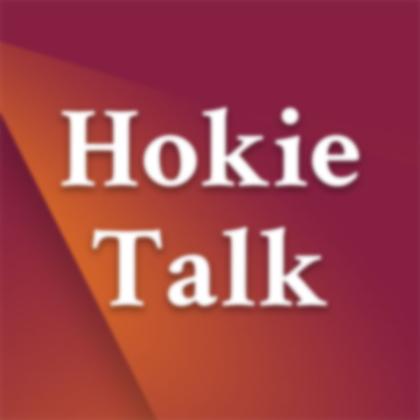
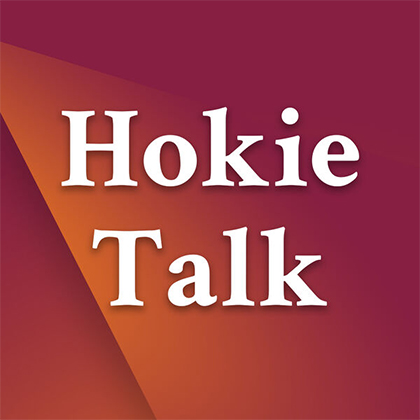
update projects
-hokie talk logo
-link to virus sim
-styling

diff --git a/styles/projects.css b/styles/projects.css
@@ -18,12 +18,13 @@
   bottom: 0;
   /* text-align: center; */
  
-	background: rgba(255, 255, 255, 1);
+	background: rgba(255, 255, 255, 0.7);
 
   box-shadow:  -5px 5px 10px #bebebe,
              1px -5px 10px #ffffff;
 
   z-index: 2;
+  backdrop-filter: blur(50px);
  
 }
 .container {
@@ -124,12 +125,14 @@ head {
       border-radius:0px;
     
     }
+   
     #content {
       background: rgba(255, 255, 255, 1);
+      padding: 64px;
     }
     .container {
       margin: 0;
-      margin-top: 64px;
+      margin-top: 00px;
       background: rgba(255, 255, 255, 0.99);
     }
     .grid-item {
@@ -139,13 +142,13 @@ head {
   button {
     position: fixed;
     margin-top: 13px;
-  margin-left: 10px;
+  margin-left: 13px;
     width: 32px;
     height: 32px;
     text-align: center;
     /* margin: 5px;  */
   
-    background: #efefef;
+    background: #efefefc0;
     border: none;
     border-radius: 25px;
     color: #444;

diff --git a/styles/index.css b/styles/index.css
@@ -127,15 +127,20 @@ a {
   @media screen and (max-width: 600px) {
 	.main-div {
 	
-		width: 320px;
+		width: 300px;
 		height: 300px;
 		padding: 60px 35px 35px 35px;
   }
   .tab {
 	  margin-top: 0;
   }
+  h2 {
+	  margin-bottom: 10px;
+  }
   button {
 	  margin: 0;
 	  margin-right: 3px;
+	  margin-top: 10px;
+	  width: 45%;
   }
   }

diff --git a/projects.html b/projects.html
@@ -22,7 +22,7 @@
     
     <div id="content">
         <div class="container">
-            <a href="projects\virus\Simulation-of-Viruses.html" class="grid-item">
+            <a href="https://ethankies.com/projects/Virus/Simulation-of-Viruses.html" class="grid-item">
              
                 <div class = "meta">
 
